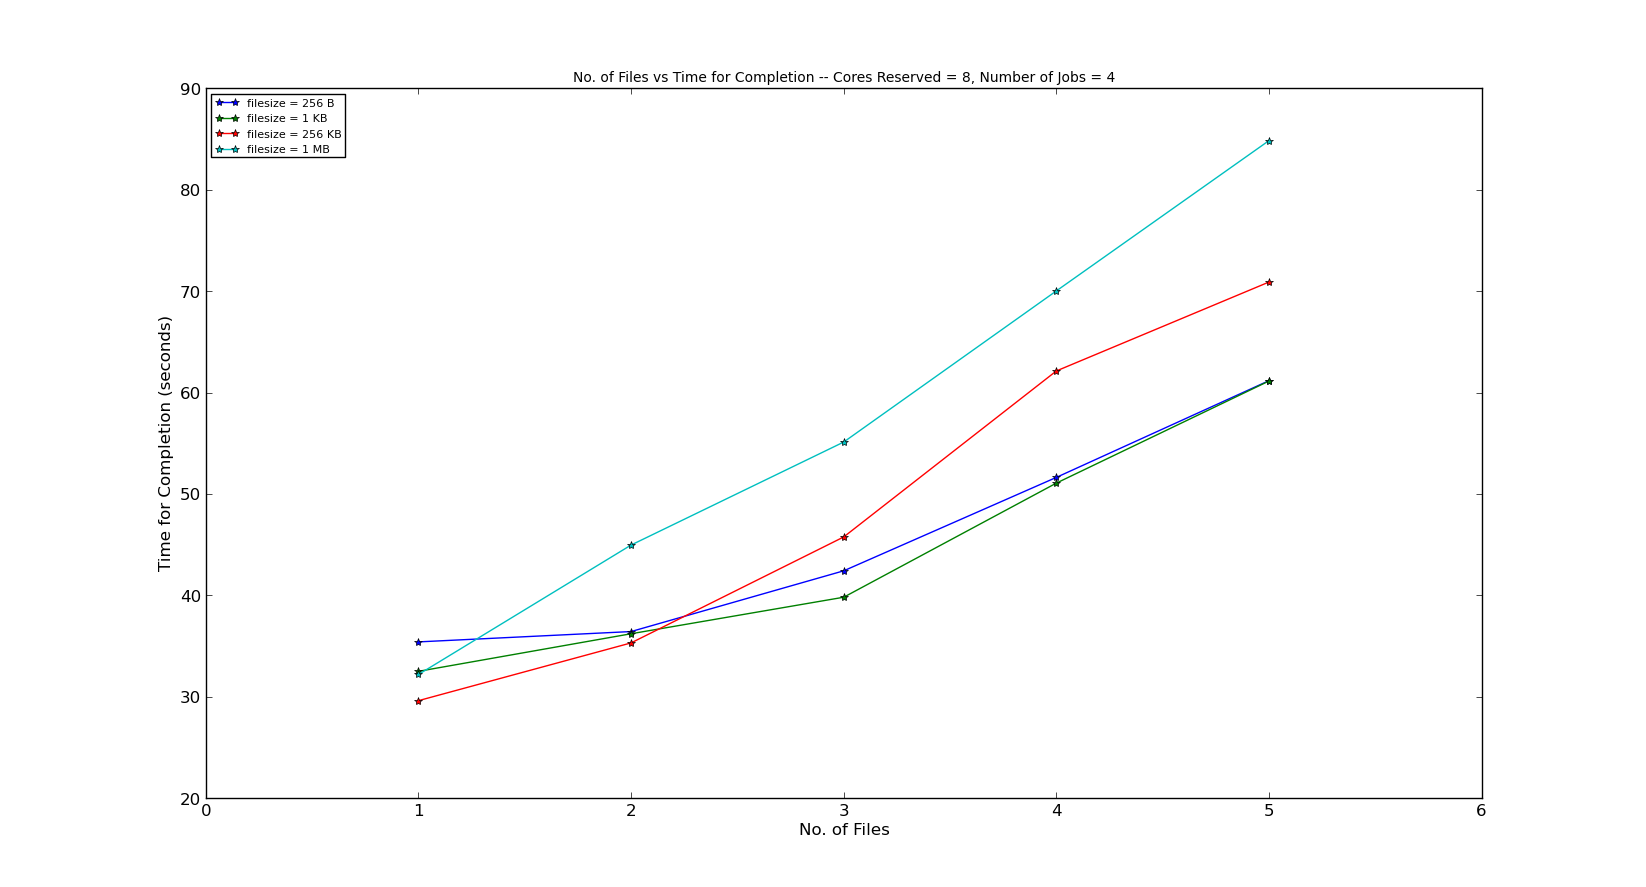
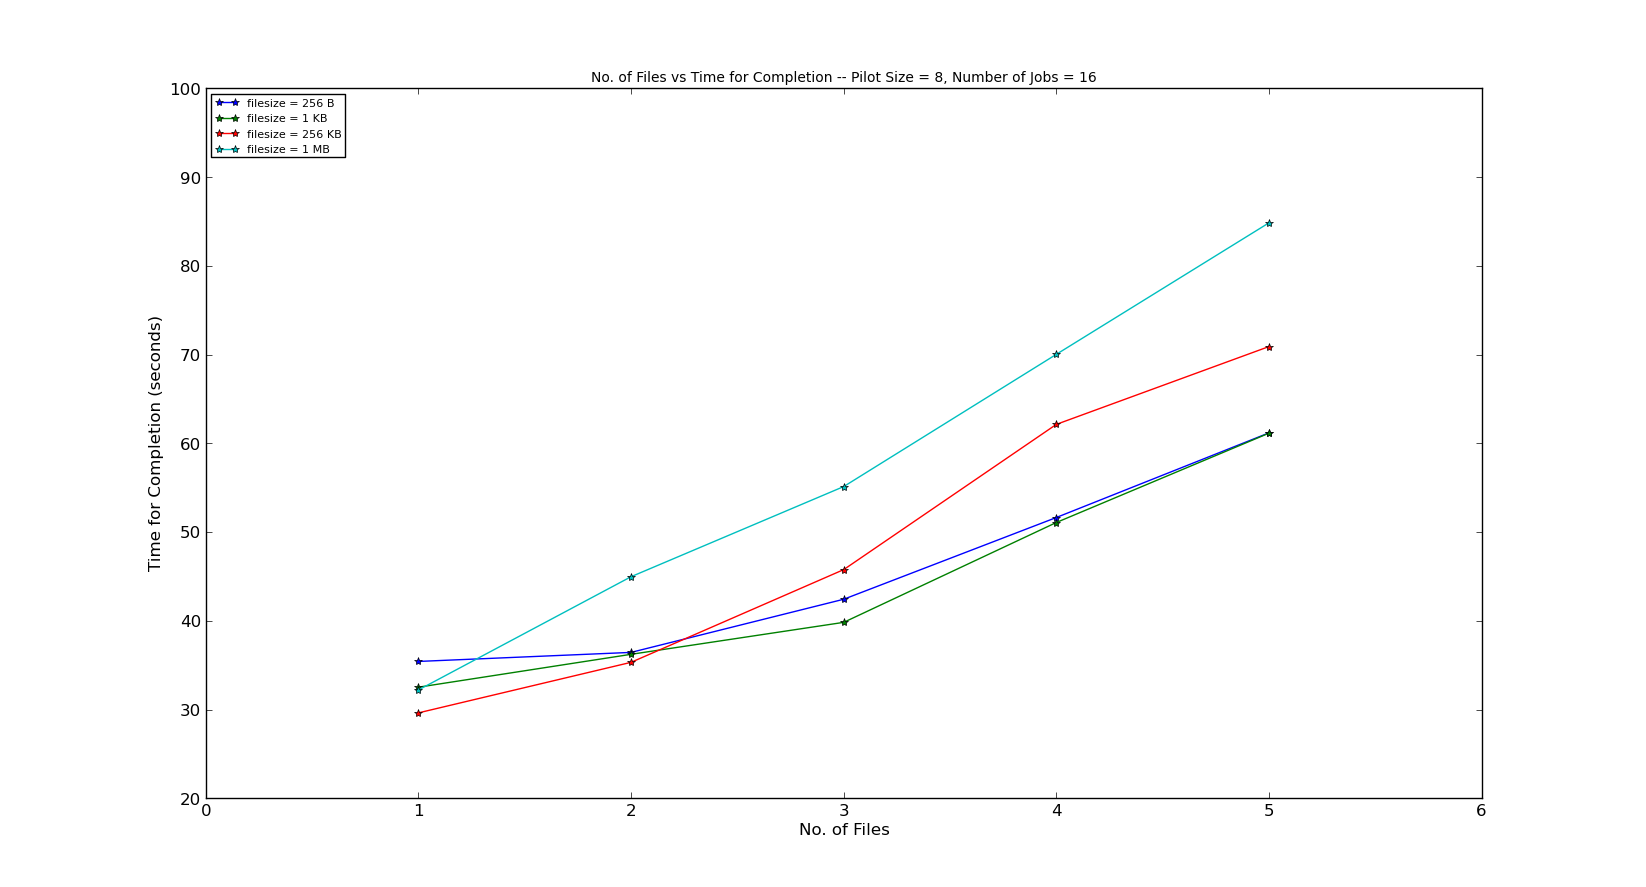
added PYP graphs

diff --git a/BJA_varying_input_size/FG2FG/Code/test.py b/BJA_varying_input_size/FG2FG/Code/test.py
@@ -1,0 +1,111 @@
+__author__ = 'vivek'
+
+import sys
+import time
+import bigjobasync
+import random
+import os
+
+
+# Number of tasks to run
+N = 16
+Nfiles = 5
+filesize = 1048576  #bytes
+itime = 0.0
+avgtime = []
+
+# ----------------------------------------------------------------------------
+#
+def resource_cb(origin, old_state, new_state):
+    msg = " * Resource '%s' state changed from '%s' to '%s'.\n" % \
+        (str(origin), old_state, new_state)
+    sys.stderr.write(msg)
+
+    if new_state == bigjobasync.FAILED:
+        # Print the log and exit if big job has failed
+        for entry in origin.log:
+            print "   * LOG: %s" % entry
+        sys.stderr.write("   * EXITING.\n")
+        sys.exit(-1)
+
+# ----------------------------------------------------------------------------
+#
+def task_cb(origin, old_state, new_state):
+    """Task callback function: writes task state changes to STDERR
+    """
+    msg = " * Task %s state changed from '%s' to '%s'.\n" % \
+        (str(origin), old_state, new_state)
+    sys.stderr.write(msg)
+
+    if new_state == bigjobasync.FAILED:
+        # Print the log entry if task has failed to run
+        for entry in origin.log:
+            print "     LOG: %s" % entry
+
+# ----------------------------------------------------------------------------
+#
+if __name__ == "__main__":
+
+    for i in range(0,Nfiles):
+        f1 = open('ifiles_%s.txt'%i,'w')
+        for l in range(0,filesize):
+            f1.write(str(random.randint(0,9)))
+        f1.close()
+
+
+    #itime = 0.0
+    #for i in range(0,5):
+    print('No of tasks : %s'%N)
+    print('No of files : %s'%Nfiles)
+    stampede = bigjobasync.Resource(
+            name       = "sierra",
+            resource   = bigjobasync.RESOURCES['FUTUREGRID.SIERRA'],
+            username   = 'vivek91',
+            runtime    = 10,
+            cores      = 8,
+            workdir    = "/N/u/vivek91/tryout/",
+            project_id = "TG-MCB090174"
+        )
+
+    stampede.register_callbacks(resource_cb)
+    stampede.allocate(terminate_on_empty_queue=True)
+
+    # Define tasks and their input and output files
+    all_tasks = []
+    inputfiles = []
+
+    for f in range(0,Nfiles):
+        temp = {
+            "mode":bigjobasync.COPY,
+            "origin":bigjobasync.LOCAL,
+            "origin_path":os.getcwd()+'/ifiles_%s.txt'%f,
+        }
+        inputfiles.append(temp)
+
+    for i in range(0, N):
+
+        sleep_task = bigjobasync.Task(
+            name        = "sleep-task-%s" % i,
+            cores       = 1,
+            environment = {},
+            executable  = "/bin/sleep 1",
+            arguments   = [],
+            input = inputfiles,
+            output = []
+        )
+        sleep_task.register_callbacks(task_cb)
+        all_tasks.append(sleep_task)
+
+    # Submit all tasks to stampede
+    t1=time.time()
+    stampede.schedule_tasks(all_tasks)
+    # Wait for the Resource allocation to finish, i.e., run out of wall time
+    stampede.wait()
+    t3=time.time()
+    #itime=itime+(t3-t1)
+    print ('itime is %s'%(t3-t1))
+    avgtime.append(t3-t1)
+
+    print(avgtime)
+    sys.exit(0)
+
